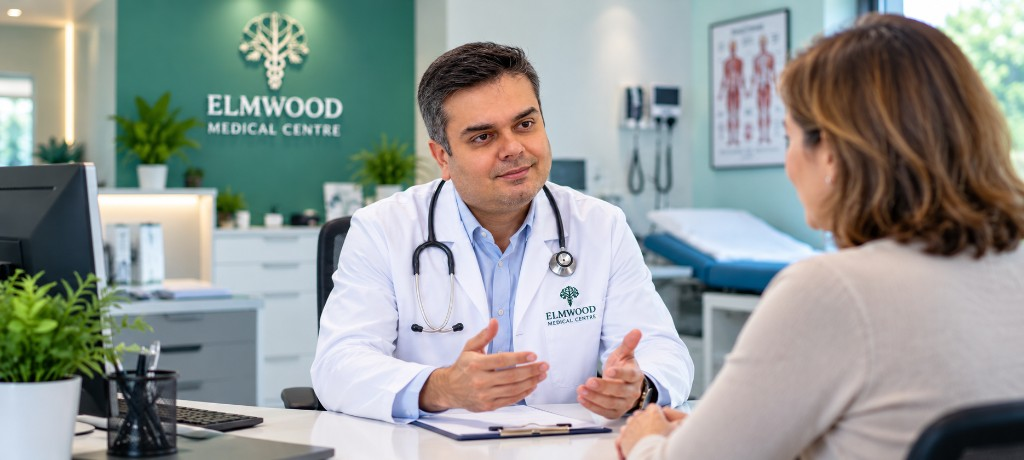
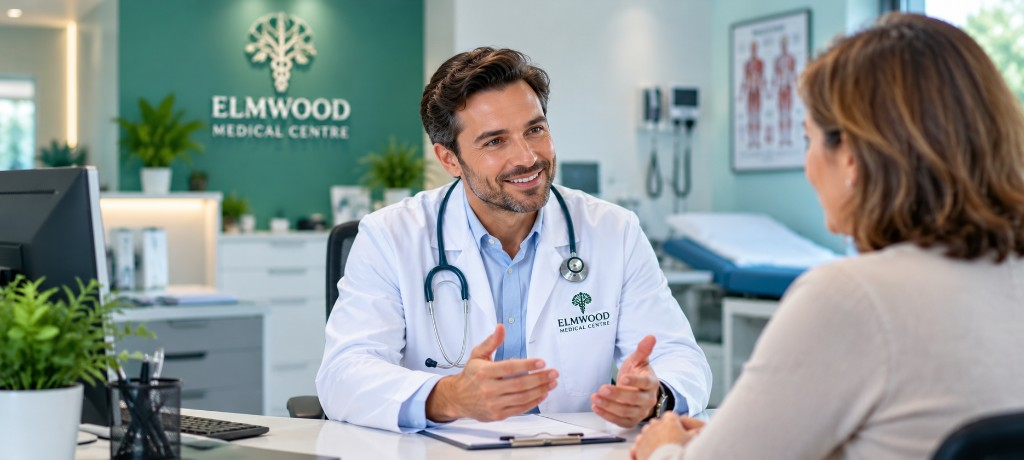
Replace three hero doctor photos while keeping the original carousel order.
Swap medical-care, family-sofa, and skin-clinic slides with the new consult, family, and skin-check images; leave the other four slides unchanged.

diff --git a/elemwood/index-3.html b/elemwood/index-3.html
@@ -304,28 +304,10 @@
 
     <!-- Hero Section Start -->
     <div class="hero-prime dark-section">
-        <!-- Hero Image Carousel Start -->
+        <!-- Hero Image Carousel Start — same order; 3 doctor photos refreshed -->
         <div class="hero-bg-carousel">
             <div class="swiper hero-carousel-swiper">
                 <div class="swiper-wrapper">
-                    <div class="swiper-slide">
-                        <div class="hero-slide-image">
-                            <img class="hero-slide-blur" src="images/hero-carousel/hero-01-doctor-consult.jpg" alt="" aria-hidden="true">
-                            <img class="hero-slide-main" src="images/hero-carousel/hero-01-doctor-consult.jpg" alt="GP consultation at Elmwood Medical Centre">
-                        </div>
-                    </div>
-                    <div class="swiper-slide">
-                        <div class="hero-slide-image">
-                            <img class="hero-slide-blur" src="images/hero-carousel/hero-02-skin-check.jpg" alt="" aria-hidden="true">
-                            <img class="hero-slide-main" src="images/hero-carousel/hero-02-skin-check.jpg" alt="Skin check at Elmwood Medical Centre">
-                        </div>
-                    </div>
-                    <div class="swiper-slide">
-                        <div class="hero-slide-image">
-                            <img class="hero-slide-blur" src="images/hero-carousel/hero-03-family-care.jpg" alt="" aria-hidden="true">
-                            <img class="hero-slide-main" src="images/hero-carousel/hero-03-family-care.jpg" alt="Family care at Elmwood Medical Centre">
-                        </div>
-                    </div>
                     <div class="swiper-slide">
                         <div class="hero-slide-image">
                             <img class="hero-slide-blur" src="images/hero-carousel/hero-01-clinic-exterior.png" alt="" aria-hidden="true">
@@ -335,13 +317,13 @@
                     <div class="swiper-slide">
                         <div class="hero-slide-image">
                             <img class="hero-slide-blur" src="images/hero-carousel/hero-02-medical-care.png" alt="" aria-hidden="true">
-                            <img class="hero-slide-main" src="images/hero-carousel/hero-02-medical-care.png" alt="Quality medical care at Elmwood">
+                            <img class="hero-slide-main" src="images/hero-carousel/hero-02-medical-care.png" alt="GP consultation at Elmwood Medical Centre">
                         </div>
                     </div>
                     <div class="swiper-slide">
                         <div class="hero-slide-image">
                             <img class="hero-slide-blur" src="images/hero-carousel/hero-03-family-sofa.png" alt="" aria-hidden="true">
-                            <img class="hero-slide-main" src="images/hero-carousel/hero-03-family-sofa.png" alt="Family GP consultation at Elmwood Medical Centre">
+                            <img class="hero-slide-main" src="images/hero-carousel/hero-03-family-sofa.png" alt="Family care at Elmwood Medical Centre">
                         </div>
                     </div>
                     <div class="swiper-slide">
@@ -353,13 +335,13 @@
                     <div class="swiper-slide">
                         <div class="hero-slide-image">
                             <img class="hero-slide-blur" src="images/hero-carousel/hero-05-mother-baby.png" alt="" aria-hidden="true">
-                            <img class="hero-slide-main" src="images/hero-carousel/hero-05-mother-baby.png" alt="Skin check at Elmwood Medical Centre">
+                            <img class="hero-slide-main" src="images/hero-carousel/hero-05-mother-baby.png" alt="Mother and baby care at Elmwood">
                         </div>
                     </div>
                     <div class="swiper-slide">
                         <div class="hero-slide-image">
                             <img class="hero-slide-blur" src="images/hero-carousel/hero-06-skin-clinic.png" alt="" aria-hidden="true">
-                            <img class="hero-slide-main" src="images/hero-carousel/hero-06-skin-clinic.png" alt="Skin clinic and dermatology care">
+                            <img class="hero-slide-main" src="images/hero-carousel/hero-06-skin-clinic.png" alt="Skin check at Elmwood Medical Centre">
                         </div>
                     </div>
                     <div class="swiper-slide">

diff --git a/elemwood/index.html b/elemwood/index.html
@@ -329,28 +329,10 @@
 
     <!-- Hero Section Start -->
     <div class="hero-prime dark-section">
-        <!-- Hero Image Carousel Start -->
+        <!-- Hero Image Carousel Start — same order; 3 doctor photos refreshed -->
         <div class="hero-bg-carousel">
             <div class="swiper hero-carousel-swiper">
                 <div class="swiper-wrapper">
-                    <div class="swiper-slide">
-                        <div class="hero-slide-image">
-                            <img class="hero-slide-blur" src="images/hero-carousel/hero-01-doctor-consult.jpg" alt="" aria-hidden="true">
-                            <img class="hero-slide-main" src="images/hero-carousel/hero-01-doctor-consult.jpg" alt="GP consultation at Elmwood Medical Centre">
-                        </div>
-                    </div>
-                    <div class="swiper-slide">
-                        <div class="hero-slide-image">
-                            <img class="hero-slide-blur" src="images/hero-carousel/hero-02-skin-check.jpg" alt="" aria-hidden="true">
-                            <img class="hero-slide-main" src="images/hero-carousel/hero-02-skin-check.jpg" alt="Skin check at Elmwood Medical Centre">
-                        </div>
-                    </div>
-                    <div class="swiper-slide">
-                        <div class="hero-slide-image">
-                            <img class="hero-slide-blur" src="images/hero-carousel/hero-03-family-care.jpg" alt="" aria-hidden="true">
-                            <img class="hero-slide-main" src="images/hero-carousel/hero-03-family-care.jpg" alt="Family care at Elmwood Medical Centre">
-                        </div>
-                    </div>
                     <div class="swiper-slide">
                         <div class="hero-slide-image">
                             <img class="hero-slide-blur" src="images/hero-carousel/hero-01-clinic-exterior.png" alt="" aria-hidden="true">
@@ -366,13 +348,13 @@
                     <div class="swiper-slide">
                         <div class="hero-slide-image">
                             <img class="hero-slide-blur" src="images/hero-carousel/hero-03-family-sofa.png" alt="" aria-hidden="true">
-                            <img class="hero-slide-main" src="images/hero-carousel/hero-03-family-sofa.png" alt="Family GP consultation at Elmwood Medical Centre">
+                            <img class="hero-slide-main" src="images/hero-carousel/hero-03-family-sofa.png" alt="Family care at Elmwood Medical Centre">
                         </div>
                     </div>
                     <div class="swiper-slide">
                         <div class="hero-slide-image">
                             <img class="hero-slide-blur" src="images/hero-carousel/hero-06-skin-clinic.png" alt="" aria-hidden="true">
-                            <img class="hero-slide-main" src="images/hero-carousel/hero-06-skin-clinic.png" alt="Skin clinic and dermatology care">
+                            <img class="hero-slide-main" src="images/hero-carousel/hero-06-skin-clinic.png" alt="Skin check at Elmwood Medical Centre">
                         </div>
                     </div>
                     <div class="swiper-slide">
@@ -384,13 +366,13 @@
                     <div class="swiper-slide">
                         <div class="hero-slide-image">
                             <img class="hero-slide-blur" src="images/hero-carousel/hero-05-mother-baby.png" alt="" aria-hidden="true">
-                            <img class="hero-slide-main" src="images/hero-carousel/hero-05-mother-baby.png" alt="Skin check at Elmwood Medical Centre">
+                            <img class="hero-slide-main" src="images/hero-carousel/hero-05-mother-baby.png" alt="Mother and baby care at Elmwood">
                         </div>
                     </div>
                     <div class="swiper-slide">
                         <div class="hero-slide-image">
                             <img class="hero-slide-blur" src="images/hero-carousel/hero-02-medical-care.png" alt="" aria-hidden="true">
-                            <img class="hero-slide-main" src="images/hero-carousel/hero-02-medical-care.png" alt="Quality medical care at Elmwood">
+                            <img class="hero-slide-main" src="images/hero-carousel/hero-02-medical-care.png" alt="GP consultation at Elmwood Medical Centre">
                         </div>
                     </div>
                 </div>
